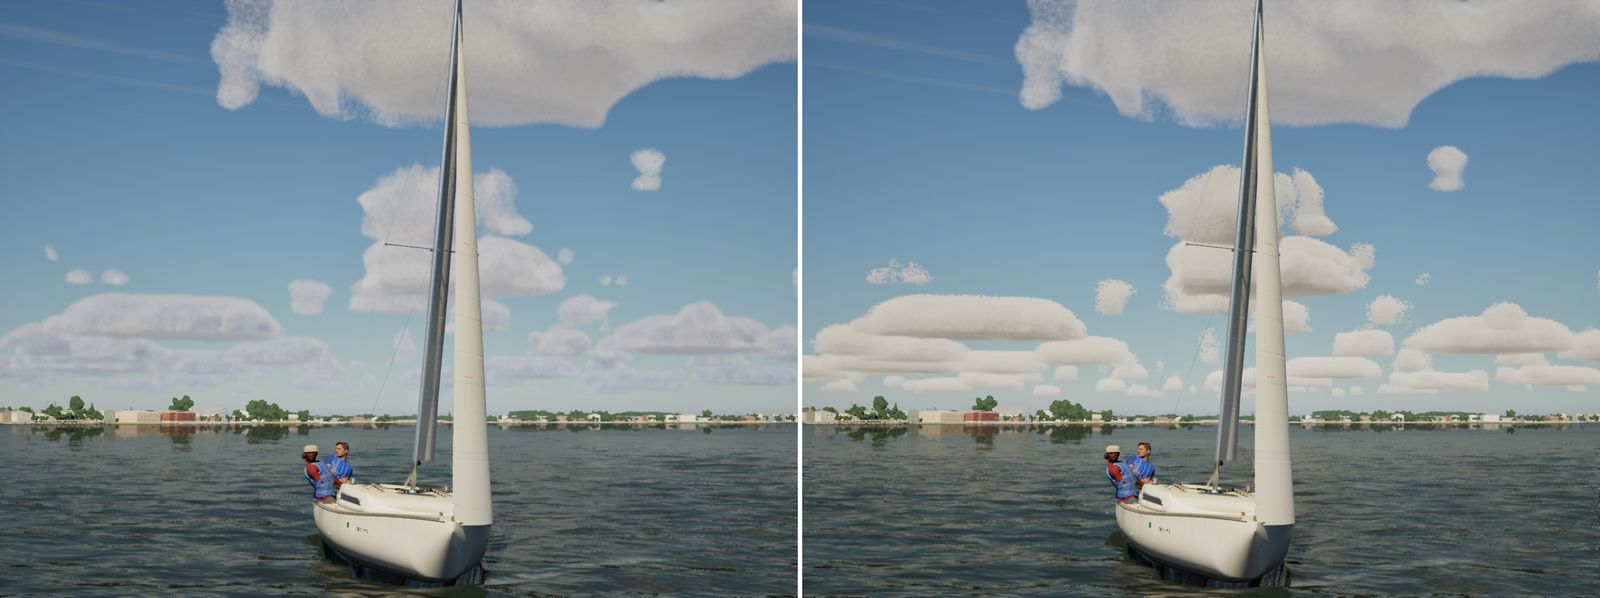
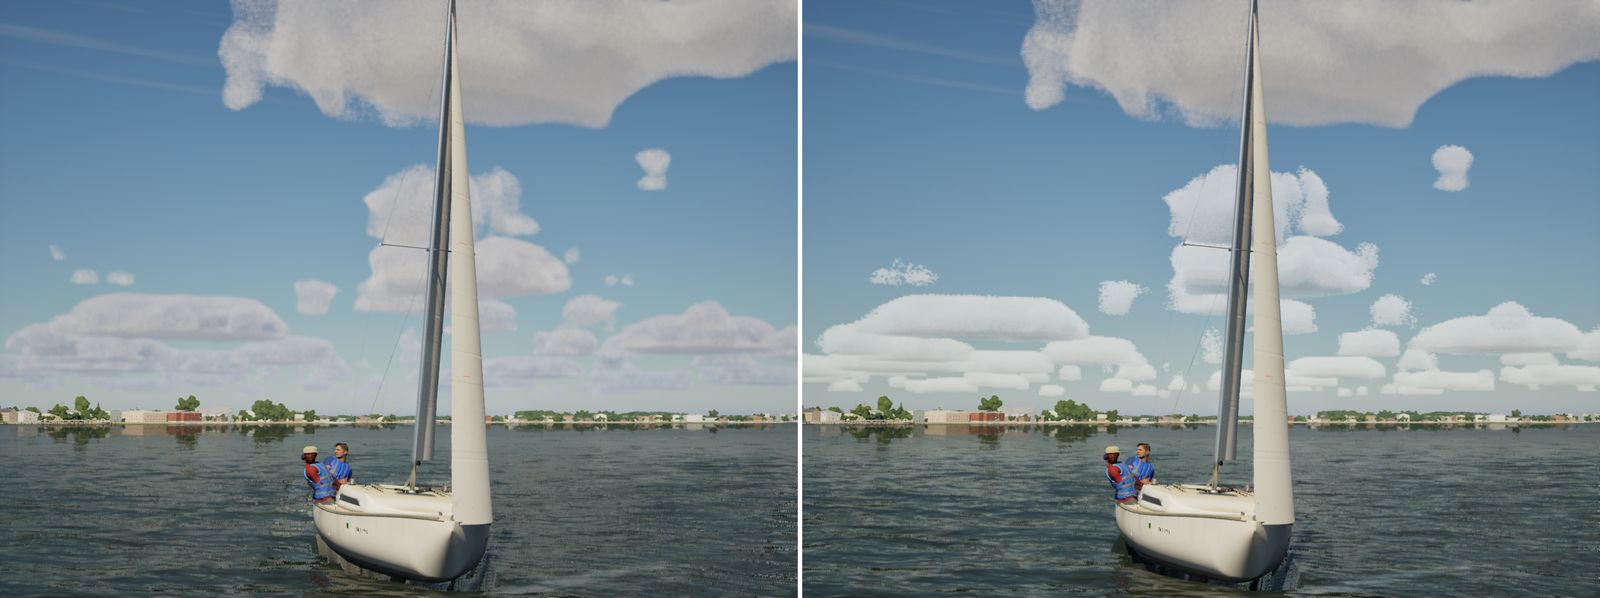
C2: final stills (High and Ultra, cache off and on), match table and costs

diff --git a/docs/round-12/c2-sky-cache/README.md b/docs/round-12/c2-sky-cache/README.md
@@ -33,9 +33,13 @@ the far band is our own march.
   - **The sun term** uses the atmosphere's own sun illuminance at the clouds' height (`SkyAtmosphereLightIlluminance`),
     reddened as the live clouds see it. With the plain `SunLum` the far clouds came out neutral grey beside warm beige
     live ones.
-  - **The sky term** uses the sky's brightness, half of it in the sun's colour.
-  - Both are scaled 1.0 / 1.1, matched to the live clouds at the seam at lake-towers, 17:00.
-    `-SailingSkyCacheLight=<sun>,<sky>` overrides.
+  - **The sky term** takes its brightness from the sky toward the view and its colour from the scene's sky light
+    (`SkyLightEnvMapSample`, overhead). The sky light reads beige late in the day; as the sun climbs, the colour moves
+    toward the blue sky's.
+  - **The scales,** per tier: High sun 1.45, sky 2.1; Ultra 1.7, 1.2. Ultra's live clouds, with more samples, read
+    brighter. As the sun climbs, both terms ease off: the sun from x1.09 at 25 degrees to x0.86 at 45, the sky from
+    x1.04 to x0.72. These were fitted to the live clouds at two sun heights, lake-towers at 17:00 and Texas City at
+    15:30. `-SailingSkyCacheLight=<sun>,<sky>` overrides the scales.
 - **The live clouds** fade out over 4.5 to 5 km once the first panorama exists (`CacheSplit` in `CLOUD_CODE`), and
   trace only to 5 km from the camera (`TracingMaxDistance`, measured from the point of view).
 - **Storms.** While a storm is in the sky, the cache steps aside and the live clouds take the whole sky back, exactly as
@@ -52,14 +56,32 @@ the far band is our own march.
   show their fuzzy fringe. Texas City shows a few faint step lines inside the largest far cells.
 - **storm-shelf.** The cache is off under the storm, so this one is the same as main. The grain is still there.
 
-## Cost (GPU, 1080p, three ProfileGPU frames after 20 s, cache off / on)
+## How well the far clouds match the live ones
+
+These are cloud pixels in the upper frame, from uncooked runs at High. Mean and 20th percentile are luminance; warmth
+is red minus blue over all cloud pixels; shadow blue is blue minus red in the darkest 30%.
+
+| | Mean | 20th pct | Warmth | Shadow blue |
+|---|---|---|---|---|
+| lake-towers (sun 25 degrees), live | 145 | 106 | 20 | -4 |
+| lake-towers, cache | 139 | 103 | 18 | -10 |
+| Texas City (sun about 45 degrees), live | 149 | 133 | -13 | 21 |
+| Texas City, cache | 168 | 146 | -10 | 19 |
+
+At lake-towers on Ultra the cache read 132 against 136, warmth 17 against 10.
+
+The match is empirical, from two scenes. Texas City still reads about 13% bright, and part of that may be the measure
+itself: the pale haze near the horizon passes the cloud mask. The cache's lighting is its own model, not the engine's,
+so other times of day and other weathers will drift; the scales are where to fix them.
+
+## Cost (GPU, 1080p, three ProfileGPU frames after 20 s, cache off / on, final build)
 
 | View | clouds + fog, ms | GPU frame, ms |
 |---|---|---|
-| lake-towers, High | 0.57 / 0.30 | 4.96 / 4.84 |
-| lake-towers, Ultra | 2.62 / 1.43 | 8.66 / 7.16 |
-| galv-kemah, High | 0.46 / 0.30 | 6.29 / 6.24 |
-| galv-kemah, Ultra | 1.82 / 1.09 | 9.07 / 8.40 |
+| lake-towers, High | 0.57 / 0.29 | 4.99 / 4.89 |
+| lake-towers, Ultra | 2.76 / 1.28 | 8.85 / 7.40 |
+| galv-kemah, High | 0.47 / 0.29 | 6.34 / 6.28 |
+| galv-kemah, Ultra | 1.81 / 1.10 | 9.43 / 8.73 |
 
 The live clouds cost about half, because they march near rays only. The strip draw is about 0.25 ms a frame on the PC
 (the `other` slice). On Ultra the frame is 0.7 to 1.5 ms cheaper; on High it is about even.
@@ -67,6 +89,18 @@ The live clouds cost about half, because they march near rays only. The strip dr
 The Mac's own target is clouds and fog under 3 ms on High; they were 5.0 ms at lake-towers. To be measured there, along
 with the strip's cost on Metal. Two things scale that cost: how many columns are drawn a frame (`kSkyCacheWidth` over 4
 s), and the steps (`kSkyCacheSteps`).
+
+## The settings test before C2 (no PR)
+
+On main, the engine's cloud reconstruction was tried first: the reprojection clamp off, `UvNoiseSampleAcceptanceWeight`
+at 5 instead of 20, and half-resolution tracing. Speckle was measured as the mean difference between each cloud pixel
+and a 2-pixel blur of the image. At lake-towers it read 1.93 on main, 1.89 with the clamp off, 1.94 at weight 5, and
+3.13 at half resolution (the storm-shelf readings went the same way). The grain is the march's own long steps, which
+history can't average on a moving camera, and that is what the cache's short near rays address.
+
+## Tests
+
+155/155 on the PC (the final head with main merged).
 
 ## Not done
 
